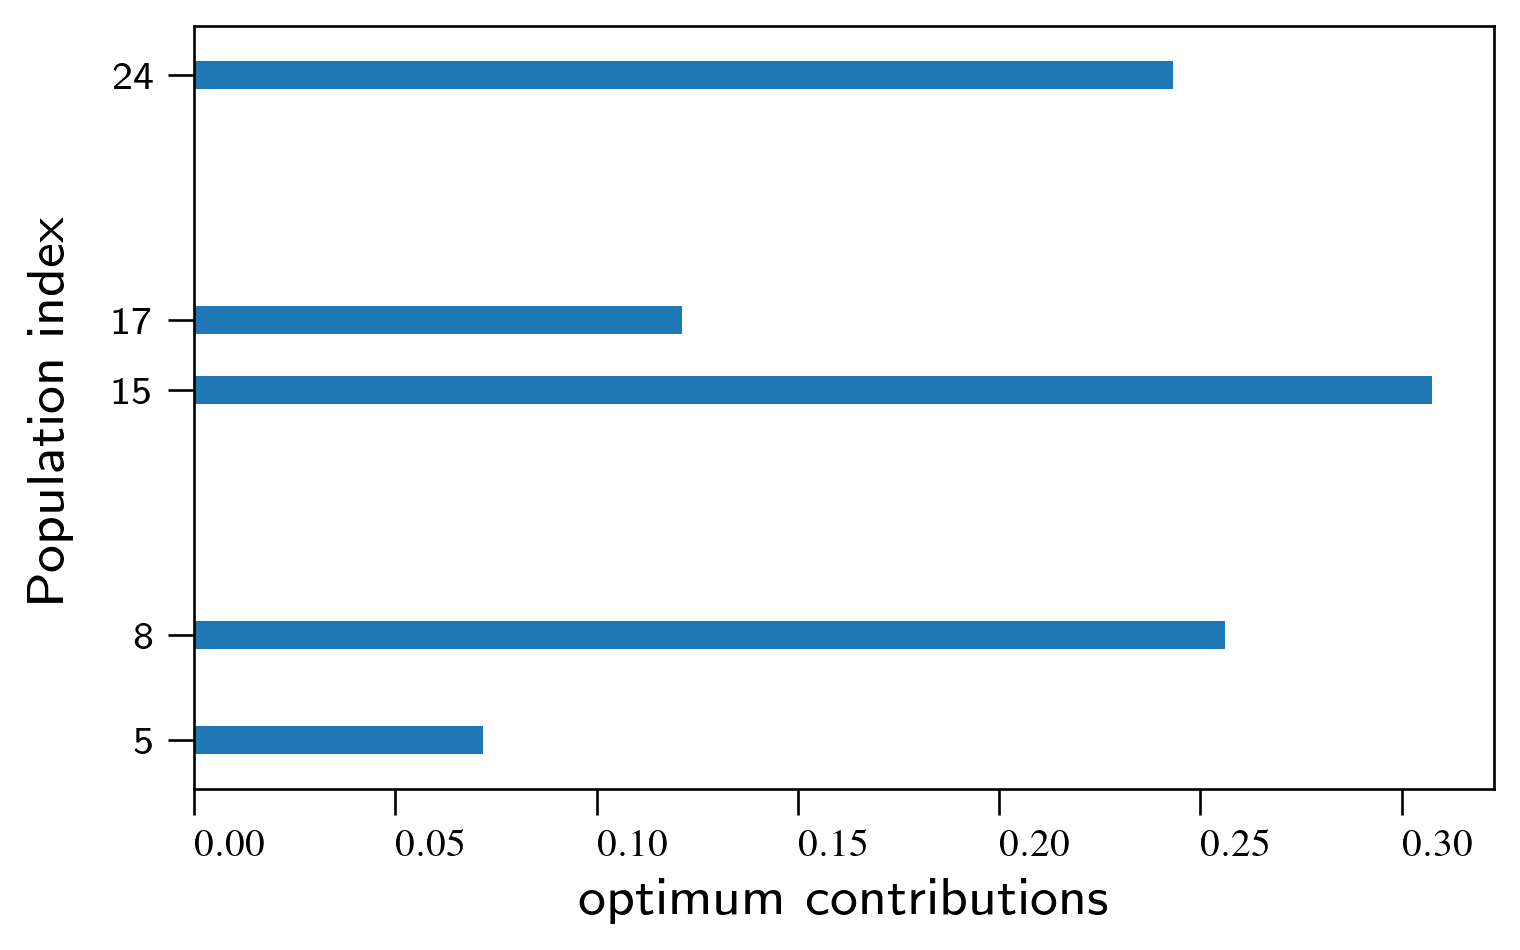
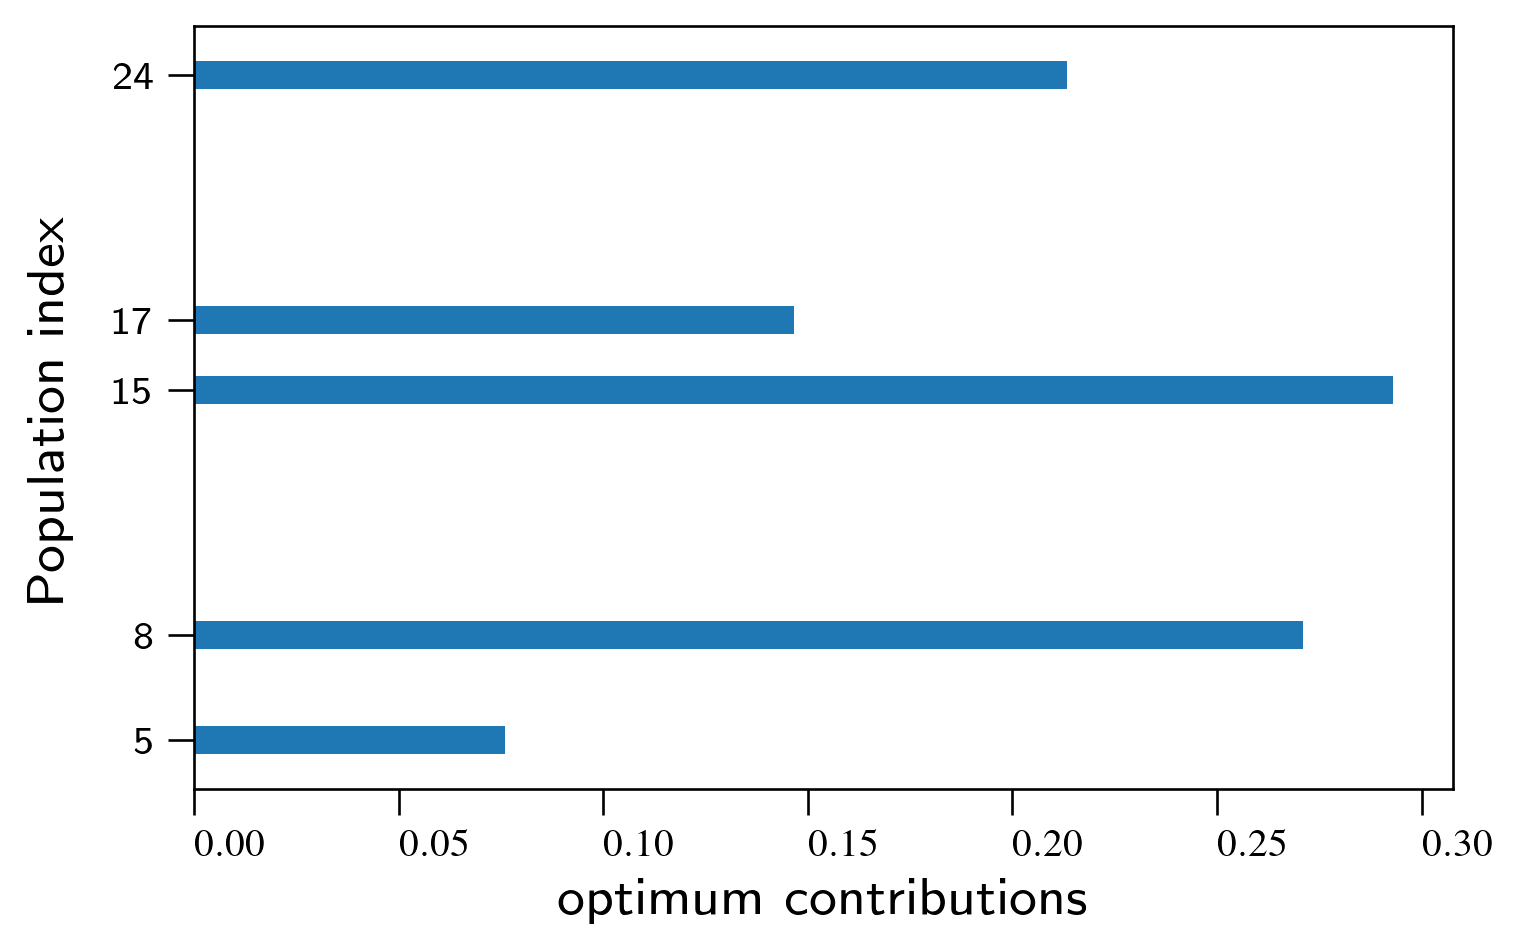
refactor opts.

diff --git a/ssldefs.py b/ssldefs.py
@@ -162,34 +162,33 @@ def ho_plt(args, PLOT_PATH, cm_list, k_rec, th):
 
 def ana_rdim(PLOT_PATH, args, summ1, ismatrix):
     
-    if not args.noplts:
-      atids = summ1['csel_ids'][:1]
-      Ak = 0.5*args.A[atids,:][:,atids]
-      cm_list = [Ak.item()]
-      cts = {}
-      for kn in range(2, summ1['ko']):
-        argsn = copy.deepcopy(args)
-        argsn.debug = False
-        atids = summ1['csel_ids'][:kn]
-        argsn.A = args.A[atids,:][:,atids]
-        argsn.n = kn
+    atids = summ1['csel_ids'][:1]
+    Ak = 0.5*args.A[atids,:][:,atids]
+    cm_list = [Ak.item()]
+    cts = {}
+    for kn in range(2, summ1['ko']):
+      argsn = copy.deepcopy(args)
+      argsn.debug = False
+      atids = summ1['csel_ids'][:kn]
+      argsn.A = args.A[atids,:][:,atids]
+      argsn.n = kn
 
-        mdln, coan_val, costs_uc = gp1(argsn)  
-        summn = summarydict(argsn, mdln.tf(), ismatrix)
+      mdln, coan_val, costs_uc = gp1(argsn)  
+      summn = summarydict(argsn, mdln.tf(), ismatrix)
 
-        cm_list.append(summn['coan'].item())
-        cts[kn] = summn['csel_vals']
+      cm_list.append(summn['coan'].item())
+      cts[kn] = summn['csel_vals']
 
-      cm_list.append(summ1['coan'].item())
-      cts[summ1['ko']] = summ1['csel_vals']
+    cm_list.append(summ1['coan'].item())
+    cts[summ1['ko']] = summ1['csel_vals']
 
-      # choose dimnishing return pop. size.
-      he = 1-np.array(cm_list)
-      helist = list(he)
-      k_rec = np.argmax(he)+1
-      th = np.arange(1, len(cm_list)+1)
-    else:
-       k_rec = summ1['ko']
+    # choose dimnishing return pop. size.
+    he = 1-np.array(cm_list)
+    helist = list(he)
+    k_rec = np.argmax(he)+1
+    th = np.arange(1, len(cm_list)+1)
+  
+    # assert k_rec == summ1['ko']
 
     # write summary of:
     kresultpath = f"{PLOT_PATH}/ks"
@@ -199,9 +198,9 @@ def ana_rdim(PLOT_PATH, args, summ1, ismatrix):
     # writetxt_dim(summ1, k_rec, kresultpath)    
 
     # plot
-    if not args.noplts:
-      ho_plt(args, PLOT_PATH, cm_list, k_rec, th)
-      he_plt(args,PLOT_PATH, helist, k_rec, th)
+    # if not args.noplts:
+    ho_plt(args, PLOT_PATH, cm_list, k_rec, th)
+    he_plt(args,PLOT_PATH, helist, k_rec, th)
 
     return k_rec
 
@@ -275,7 +274,7 @@ def rdim_opt(cfgs, SCRATCH=None, POP_FILES=None, ismatrix=False):
 
   args = Props(pop_files=POP_FILES, n=n_, noplts=cfgs["noPlots"],
               use_cuda=False, use_corr=cfgs["USE_CORR"], max_steps=cfgs["MAXSTEPS"], no_maxsteps=cfgs["NO_MAXSTEPS"],
-              max_batchsize=int(cfgs["MAX_BATCHSIZE"]), err_opt_acc=1e-15, debug=cfgs["debug"])
+              max_batchsize=int(cfgs["MAX_BATCHSIZE"]), err_opt_acc=1e-6, debug=cfgs["debug"])
   
   svlists = Props(t=[],he_t=[], clmb_t=[], cost_u_t=[], dcost_u_t=[], cost_c_t=[], dcost_c_t=[], lr_t=[], bt_t=[])
 
@@ -285,7 +284,7 @@ def rdim_opt(cfgs, SCRATCH=None, POP_FILES=None, ismatrix=False):
   if not ismatrix:
     data_ldr = PopDatasetStreamerLoader(args.pop_files,args.n,args.max_batchsize)
     assert args.n == data_ldr.neff
-
+    
   # print("Epoch: " + str(epoch+1)) 
   print(f"{('~~~~')*20}")
   walltime = time.time()
@@ -359,7 +358,7 @@ def rdim_opt(cfgs, SCRATCH=None, POP_FILES=None, ismatrix=False):
   k_rec = ana_rdim(PLOT_PATH, args, summ1, ismatrix)
   walltime = (time.time() - walltime)/60 
   # print(f"\nTotal batches: {b_idx+1}")
-  print(f"time elapsed: {walltime:.2f}-mins", ', recommended population size:', k_rec) 
+  print(f"time elapsed: {walltime:.2f}-mins", ', recommended population size: <=', k_rec) 
 
   print('Done!')
   print(f"{('~~~~')*20}")

diff --git a/aipy/qautosgm.py b/aipy/qautosgm.py
@@ -643,9 +643,20 @@ class CommonSets():
         # input lowpass parameter estimation
         
         if self.beta_cfg.auto and step > 1:
+
+            if step < 1:
+                vidx = self.pos_idxs[:,0]
+                m = m_t[vidx]
+                g = g_t[vidx]
+                go = g_to[vidx]
+            else:
+                m = m_t
+                g = g_t
+                go = g_to   
+
             if not self.lpf.tensor_lists:
-                num_val = g_t.T.mm(g_t-g_to)   
-                den_val = m_t.T.mm(g_to)
+                num_val = g.T.mm(g-go)   
+                den_val = m.T.mm(go)
                 # approxs.
                 num_val.div_((num_val + den_val).add_(self.dev_eps))
                 return num_val[0].abs()
@@ -665,28 +676,30 @@ class CommonSets():
         # linear correlation estimate update  
         # can we estimate this more accurately?
 
-        if not self.lpf.tensor_lists:
+        if step < 1:
+            vidx = self.pos_idxs[:,0]
+            A = self.mdl.A[vidx,:][:,vidx]
+            m = m_t[rpl][vidx]
+            g = g_t[rpl][vidx]
+        else:
             A = self.mdl.A
-            numa_val = m_t[rpl].T.mm(g_t[rpl])
-            dena_val = m_t[rpl].T.mm(A.mm(m_t[rpl]))
+            m = m_t[rpl]
+            g = g_t[rpl]
 
-            numb_val = m_t[rpl].T.mm(A.mm(g_t[rpl]))
-            denb_val = m_t[rpl].T.mm((A*A).mm(m_t[rpl]))        
+        if not self.lpf.tensor_lists:
+            numa_val = m.T.mm(g)
+            dena_val = m.T.mm(A.mm(m))  
             # approxs.
-            numa_val.div_(dena_val.add(self.dev_eps))
-            numb_val.div_(denb_val.add(self.dev_eps))
-            
+            numa_val.div_(dena_val.add(self.dev_eps))            
 
-            if self.dev_beta_lr in [0, 1]:
-                bt_lr = self.dev_beta_lr 
-            else:   
-                pt = (self.dev_epp)/(step + (self.dev_epp-self.fone))
-                bt_lr = self.dev_beta_lr*(1-pt)
-
-            lrat = (bt_lr*numa_val) + ((1-bt_lr)*numb_val) 
+            # if self.dev_beta_lr in [0, 1]:
+            #     bt_lr = self.dev_beta_lr 
+            # else:   
+            #     pt = (self.dev_epp)/(step + (self.dev_epp-self.fone))
+            #     bt_lr = self.dev_beta_lr*(1-pt)
 
             # abs. val projection. to ensure positive rates.
-            alpha_hat_t = lrat #.abs()    
+            alpha_hat_t = numa_val.abs()    
 
         elif self.lpf.tensor_lists:
                    
@@ -836,6 +849,7 @@ class CommonSets():
         
         # smooth-projection
         if not self.lpf.tensor_lists: 
+            self.pos_idxs = (w_t[rpl] > 0).nonzero()
             # proj.
             param_val = self.smooth_avg_out(step, rpl, w_t[rpl].relu(), w_smth)
 
@@ -883,8 +897,8 @@ class AutoSGM(Optimizer):
     
     def __init__(self, params, mdl, *, 
                  lr_mode=(True,1),
-                 lr_init=1e-3, eps=1e-15, 
-                 beta_cfg=(True, 0., 0.9, 1),
+                 lr_init=1e-3, eps=1e-8, 
+                 beta_cfg=(True, 0.1, 0.1, 0.9),
                  rcf_cfg=((False), (True,True), (1, 1, 0)), 
                  loglr_step:Optional[bool]=None,
                  maximize:bool=False, foreach:bool=False):  

diff --git a/aipy/mdls.py b/aipy/mdls.py
@@ -11,7 +11,7 @@ import torch.nn as nn
 class ILinear(nn.Module):
     """ """
 
-    def __init__(self, dim=2, eps=1E-15):
+    def __init__(self, dim=2, eps=1e-15):
         super().__init__()
         self.dim = dim
         ones_vec = torch.ones((dim, 1), dtype=torch.float)
@@ -96,9 +96,8 @@ class ILinear(nn.Module):
         compute diagonal preconditioner
         """
         dd = 1 / (torch.diag(A).sqrt())
-        # skip normalizing with diagonal, if diag elements are ~ 1
-        if (1 - (dd).mean()).abs() < epsln:
-            use_corr = False
+        # optional, skip normalizing with diagonal, if diag elements are ~ 1
+        if (1 - (dd).mean()).abs() < epsln: use_corr = False
 
         if use_corr:
             return torch.diag(dd)

diff --git a/sslcmd.py b/sslcmd.py
@@ -62,7 +62,7 @@ else:
   cfgs["NO_MAXSTEPS"] = True
   cfgs["MAXSTEPS"] = 1000
   cfgs["noPlots"] = False
-  cfgs["debug"] = False
+  cfgs["debug"] = True
   # coan_matrix = "coan_matrix_files/co_mat.txt"
   # coan_matrix = "coan_matrix_files/co_mat_sthd.txt"
   coan_matrix = "coan_matrix_files/plink_mat.rel"
@@ -103,6 +103,7 @@ else:
   
 # cfgs["S_PLOT_PATH"] = f"cmdlogs/{secret_key}/"
 cfgs["S_PLOT_PATH"] = f"cmdlogs"
+os.makedirs(cfgs["S_PLOT_PATH"], exist_ok=True)
 shutil.rmtree(cfgs["S_PLOT_PATH"])
  
 # Run!

diff --git a/aipy/gp.py b/aipy/gp.py
@@ -12,12 +12,11 @@ def gp1(args, svlists=None):
     zero_hits = 0
 
     # mdl: linear model
-    mdl = ILinear(dim=args.n, eps=args.err_opt_acc)
+    mdl = ILinear(dim=args.n)
     if args.use_cuda: mdl.cuda()
     mdl.data_matrix(args.A, args.use_corr)
     # opt:asgmq
-    opt = AutoSGM([mdl.param_u], mdl,
-                  lr_mode=(True, 1), beta_cfg=(True, 0.1, 0.1, 1),)
+    opt = AutoSGM([mdl.param_u], mdl)
 
     # init eval: obj
     for t in range(1, args.max_steps+1):

diff --git a/ssltest.py b/ssltest.py
@@ -22,7 +22,7 @@ cfgs["USE_CORR"] = True
 cfgs["NO_MAXSTEPS"] = True
 cfgs["MAXSTEPS"] = 1000
 cfgs["noPlots"] = True
-cfgs["debug"] = False
+cfgs["debug"] = True
 
 SCRATCH_FOLDERS = ["alle_frq_dirs/test_af",  "alle_frq_dirs/sthd_af"]
 for dir in SCRATCH_FOLDERS:
